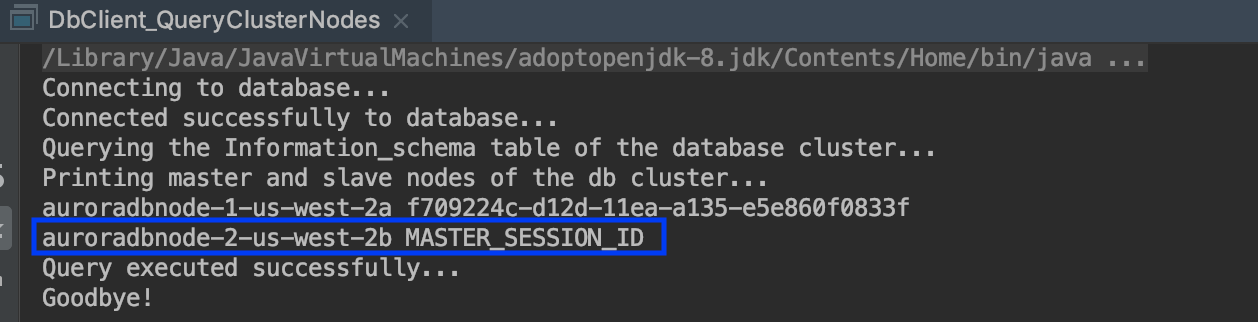
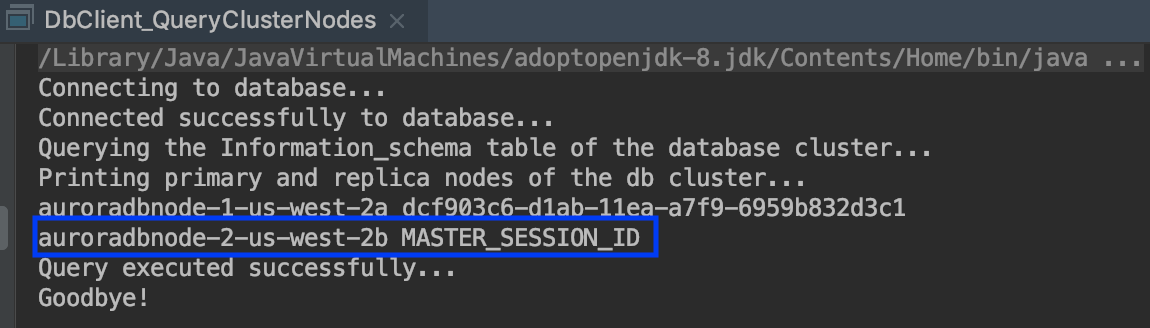
initial commit

Changed region(s): [[0.0, 0.1242, 0.9435, 0.9627], [0.0, 0.0311, 0.3348, 0.0932], [0.9739, 0.1863, 1.0, 0.2174]]

diff --git a/README.md b/README.md
@@ -1,7 +1,7 @@
 # Using the MariaDB JDBC driver with Amazon Aurora with MySQL compatibility
 
 ## Overview
-In this lab, we demonstrate how to use the MariaDB JDBC driver also known as MariaDB Connector/J, to connect to an [Amazon Aurora](https://aws.amazon.com/rds/aurora/) cluster. We use a combination of a small custom Java client program, AWS CLI and a terminal to showcase how the automatic failover capability of the connector allows switching rapidly and seamlessly between master and replica in a failover situation. You can have a quick read through of the following [blog post](https://aws.amazon.com/blogs/database/using-the-mariadb-jdbc-driver-with-amazon-aurora-with-mysql-compatibility/) if you do not wish to complete the lab.
+In this lab, we demonstrate how to use the MariaDB JDBC driver also known as MariaDB Connector/J, to connect to an [Amazon Aurora](https://aws.amazon.com/rds/aurora/) cluster. We use a combination of a small custom Java client program, AWS CLI and a terminal to showcase how the automatic failover capability of the connector allows switching rapidly and seamlessly between primary and replica in a failover situation. You can have a quick read through of the following [blog post](https://aws.amazon.com/blogs/database/using-the-mariadb-jdbc-driver-with-amazon-aurora-with-mysql-compatibility/) if you do not wish to complete the lab.
 
 ## Learning objectives
 In this lab you will learn the following:
@@ -79,15 +79,15 @@ We have just demonstrated how to use the MariaDB JDBC driver known as MariaDB Co
 
 In the second part of this demo, we demonstrate how the MariaDB Connector/J failover capability works with Aurora automatic failover.
 
-To do that, use the DbClient_QueryClusterNodes.java which is a modified version of the DbClient.java that connects to the database cluster and runs a query to read from the INFORMATION_SCHEMA table the endpoint (master or replica) to which the current connection is pointing to. As we can see from the screenshot below the current primary node (master) is auroradbnode-1-us-west-2a
+To do that, use the DbClient_QueryClusterNodes.java which is a modified version of the DbClient.java that connects to the database cluster and runs a query to read from the INFORMATION_SCHEMA table the endpoint (primary or replica) to which the current connection is pointing to. As we can see from the screenshot below the current primary node (primary) is auroradbnode-1-us-west-2a
 
-![alt text](img/masterslave.png)
+![alt text](img/primaryreplica.png)
 
 Now let’s try to run a query to inserting a record on the database. To better illustrate the failover scenario, we connect to each node endpoint separately and run queries to try adding data to the VENDORS table. That way, we can show that we can’t insert data to the database while connected to the replica endpoint because it has read-only permissions.
 
-### Connecting to the master endpoint
+### Connecting to the primary endpoint
 
-This time we use mysql client from a terminal to connect to the master node of our database. The same can also be done with the java client program.
+This time we use mysql client from a terminal to connect to the primary node of our database. The same can also be done with the java client program.
 
 	mysql -u auroradbtest -h auroradbnode-1-us-west-2a.cgdued2pbbld.us-west-2.rds.amazonaws.com -p
 	Enter password: 
@@ -176,11 +176,11 @@ Note that the above command should return a json format key-value output with de
 	        "DBClusterIdentifier": "auroradbcluster-us-west-2",
 	        ...
 
-If we re-run our java client program DbClient_QueryClusterNodes.java again we can see that the previous master node (auroradbnode-2-us-west-2a)is now a replica while the previous replica (auroradbnode-2-us-west-2b) has been promoted to master. See screenshot below.
+If we re-run our java client program DbClient_QueryClusterNodes.java again we can see that the previous primary node (auroradbnode-2-us-west-2a)is now a replica while the previous replica (auroradbnode-2-us-west-2b) has been promoted to primary. See screenshot below.
 
 ![alt text](img/failover.png)
 
-Similarly, if we rerun the insert query to add data to the VENDORS table while connected to the previous replica endpoint which has now been promoted to master, we are able to successfully add record to the table as shown from the output below.
+Similarly, if we rerun the insert query to add data to the VENDORS table while connected to the previous replica endpoint which has now been promoted to primary, we are able to successfully add record to the table as shown from the output below.
 
 	mysql -u auroradbtest -h auroradbnode-2-us-west-2b.cgdued2pbbld.us-west-2.rds.amazonaws.com -p
 	Enter password: 
